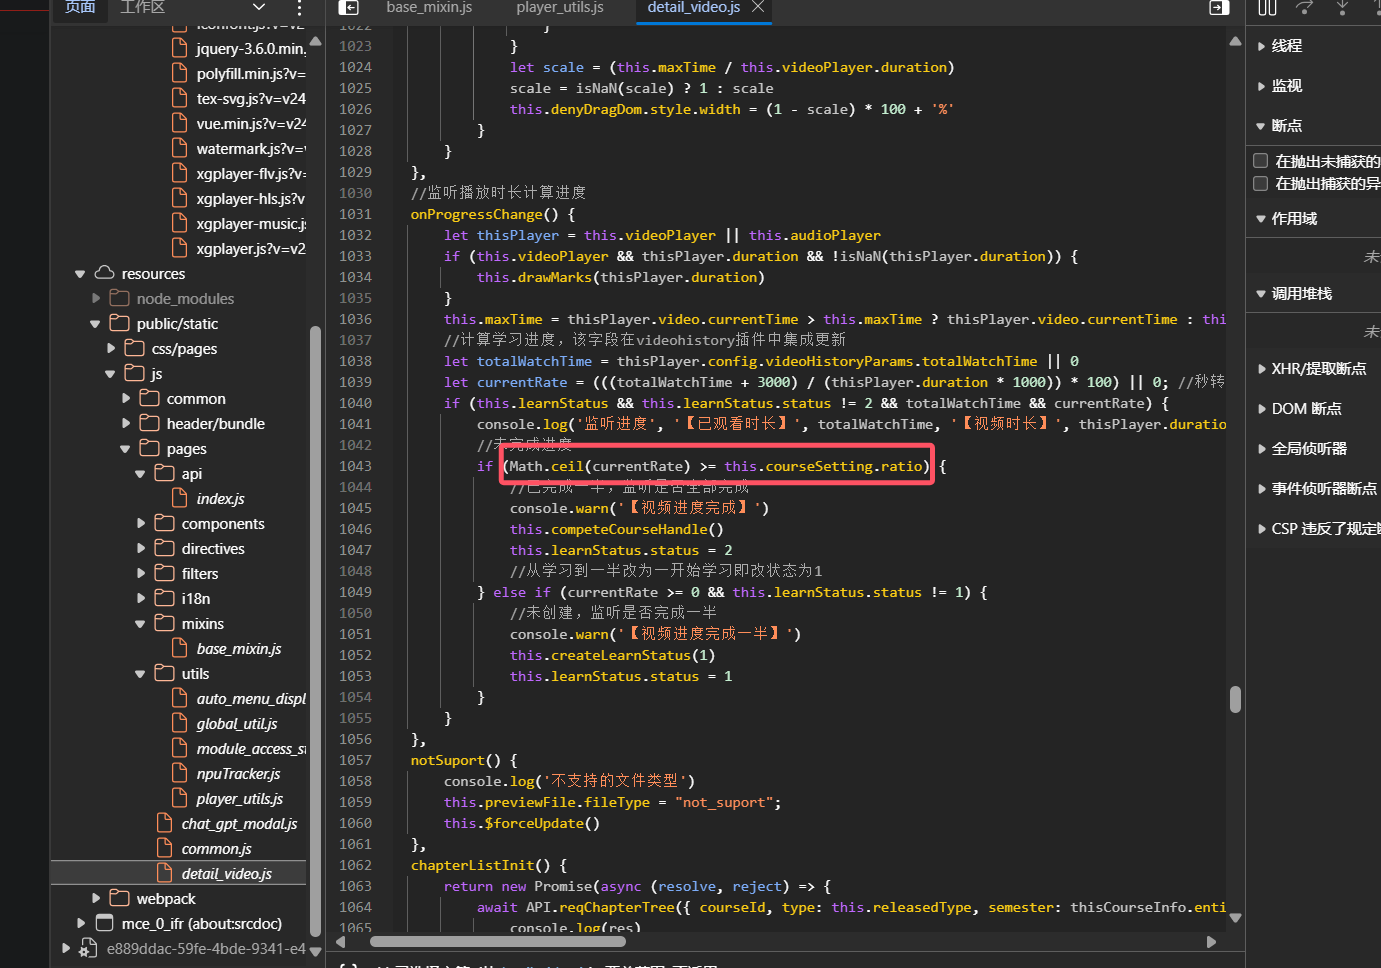
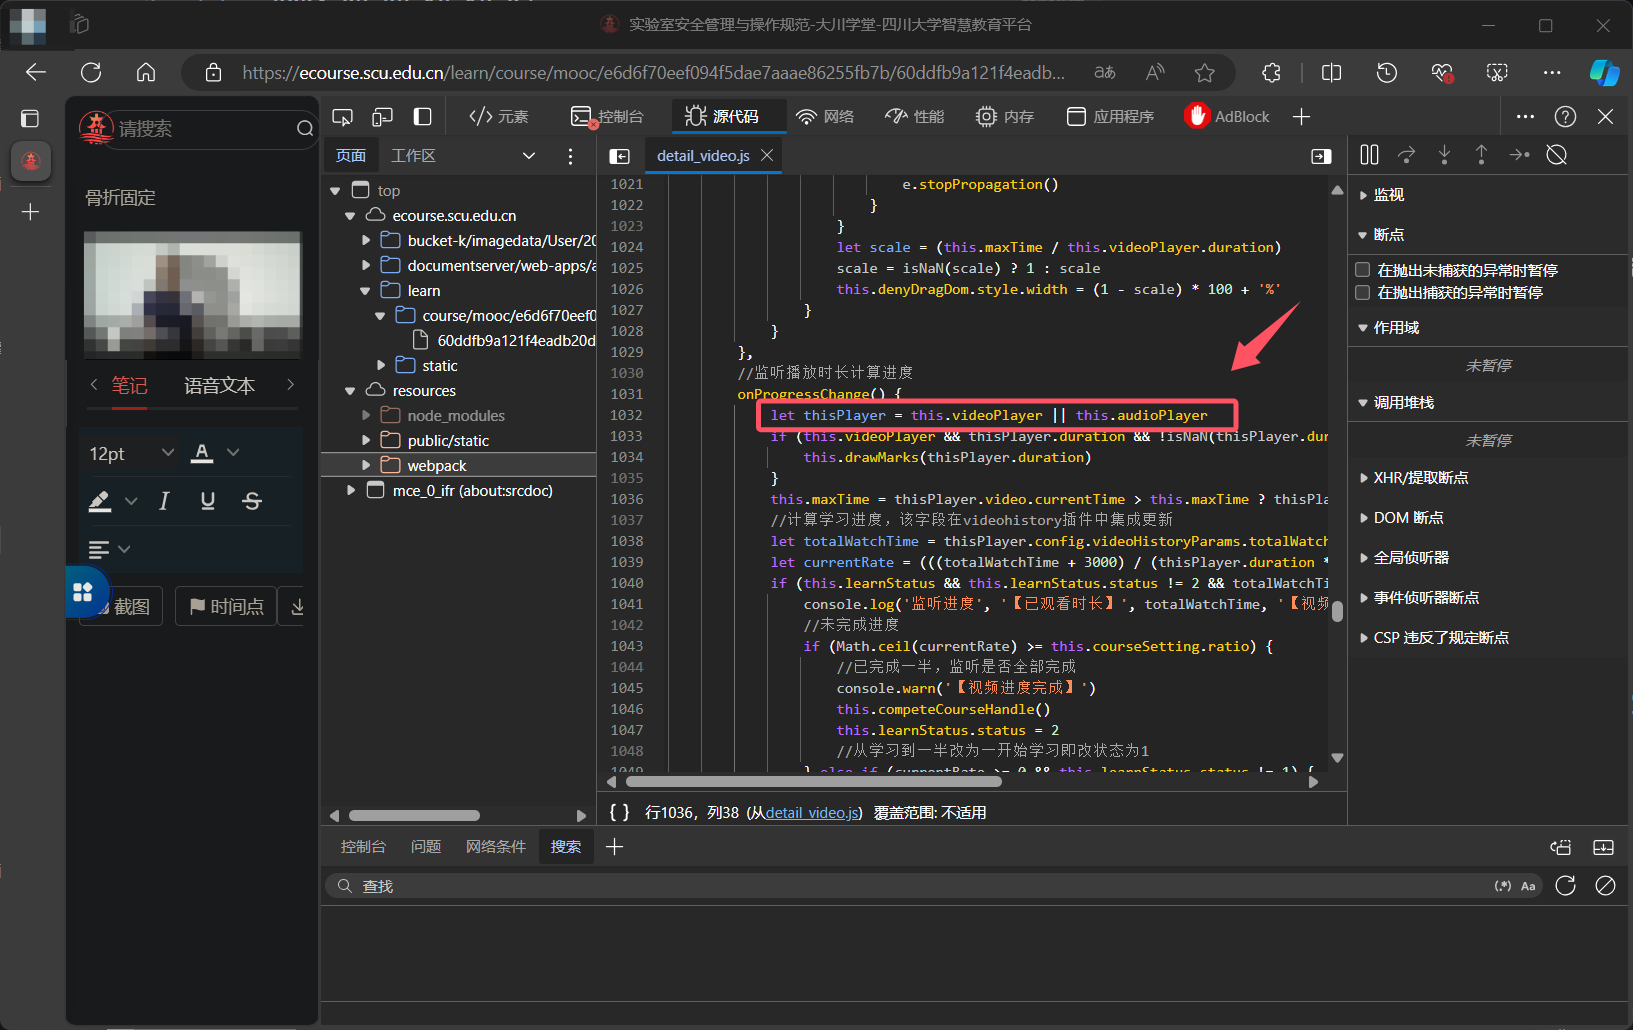
update

diff --git a/source/_posts/在大川学堂上快速完成视频观看.md b/source/_posts/在大川学堂上快速完成视频观看.md
@@ -17,21 +17,27 @@ tags: Web
 
 ![DevTools](2.png)
 
-# 编辑源代码
-找到第1043行
+# 打断点
+找到第1032行
 
-![第1043行](3.png)
+![第1032行](3.png)
 
-将if条件中的表达式改为1
+将鼠标移动到1032左边的区域，会出现一个小红点，用鼠标单击它
 
-![改后的样子](4.png)
+![打好断电的样子](4.png)
 
-# 改完后记住按下`Ctrl`+`S`保存
+网页应该会如下图所示
+![程序在断电处暂停](5.png)
 
-改完一定要保存！！！
+# 运行代码
+转到 `控制台`（Console）选项卡，在下方输入以下代码
+```js
+this.competeCourseHandle()
+```
+然后回车运行
+![如图所示](6.png)
 
-# Tips
-推荐使用Chromium系浏览器（Chrome、Edge），因为源代码可以直接这样改；而FireFox不能直接这样改，要麻烦一点（需要在if判断前打断点，然后在控制台里面改）
+# 大功告成
 
 # 写在最后
 我的这个方法当然是比较繁琐的，肯定有直接在控制台里丢一段代码就搞定的方式。但由于我早就把这些视频看完了，没有实验的机会了。还请各位小登去逆向分析一下，直接把这个请求的参数分析出来。
